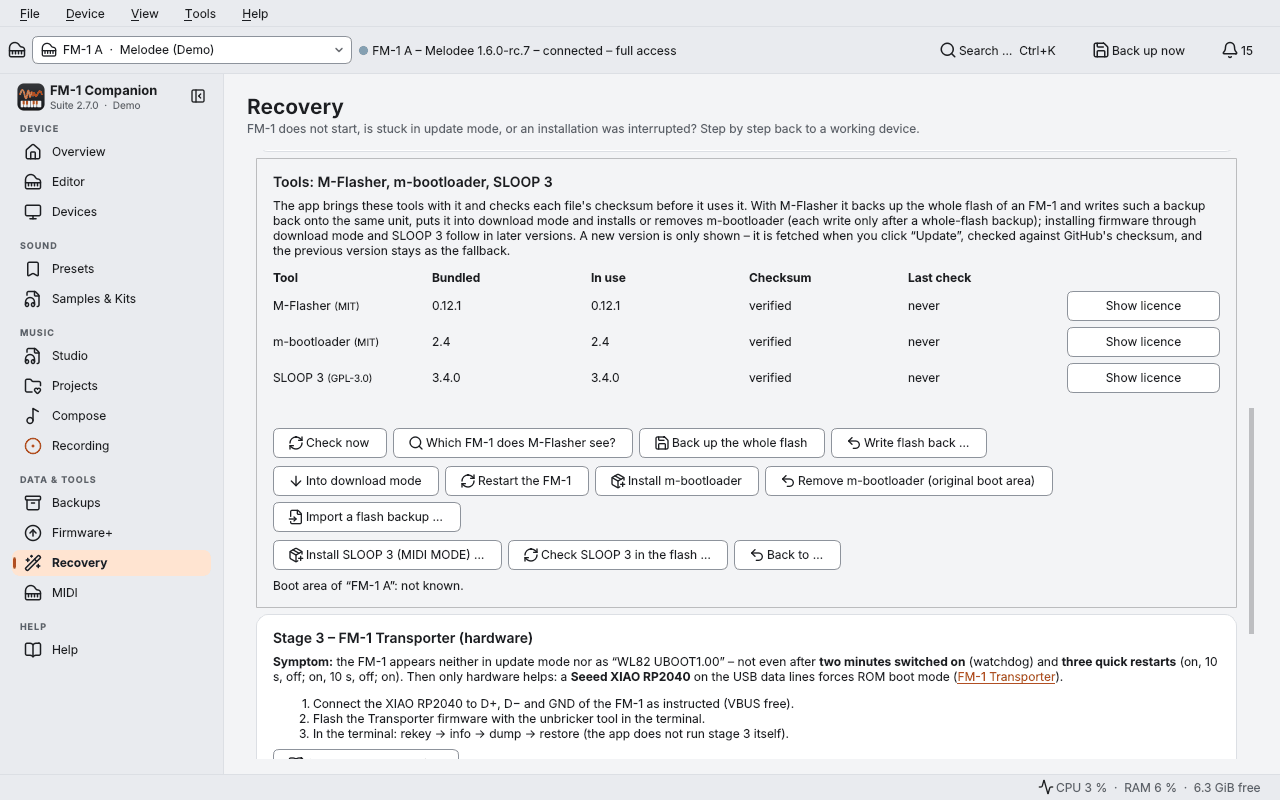
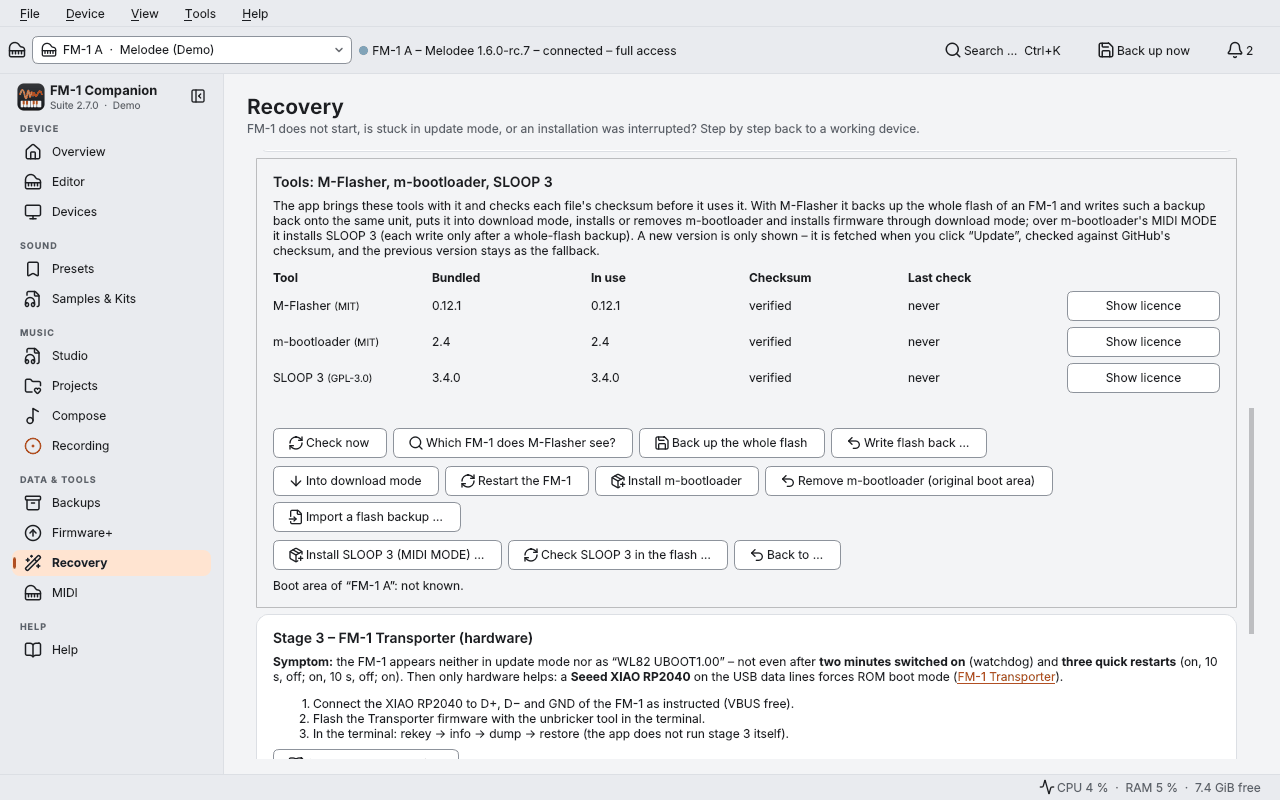
Tools card: the introduction names what 2.7.0 does
It still said firmware through download mode and SLOOP 3 "follow in later
versions". Screenshot retaken, the note in docs/TOUR.md removed.

Claude-Session: https://claude.ai/code/session_014L6PkRdk4VDGStfhgMpofe

diff --git a/fm1companion/ui/tools_card.py b/fm1companion/ui/tools_card.py
@@ -55,9 +55,9 @@ class ToolsCard(Card):
         lay = self.layout()
         intro = QLabel(_("The app brings these tools with it and checks each file's checksum before it uses it. "
                          "With M-Flasher it backs up the whole flash of an FM-1 and writes such a backup back onto "
-                         "the same unit, puts it into download mode and installs or removes m-bootloader (each write "
-                         "only after a whole-flash backup); installing firmware through download mode and SLOOP 3 "
-                         "follow in later versions. A new version is only shown – it is fetched when you click “Update”, checked "
+                         "the same unit, puts it into download mode, installs or removes m-bootloader and installs "
+                         "firmware through download mode; over m-bootloader's MIDI MODE it installs SLOOP 3 (each "
+                         "write only after a whole-flash backup). A new version is only shown – it is fetched when you click “Update”, checked "
                          "against GitHub's checksum, and the previous version stays as the fallback."))
         intro.setWordWrap(True)
         lay.addWidget(intro)

diff --git a/docs/TOUR.md b/docs/TOUR.md
@@ -206,8 +206,7 @@ with a made-up unit; the last paragraph of each is the app's own statement of wh
 
 The home of the three tools: which version is bundled and in use, whether its checksum is correct, and every action
 as a button – back up the whole flash, write it back, download mode, install or remove m-bootloader, install SLOOP 3,
-"Back to …". (The card's introduction still says that firmware through download mode and SLOOP 3 "follow in later
-versions" – in 2.7.0 both are there: the buttons below it.)
+"Back to …".
 
 ### Installing m-bootloader
 
